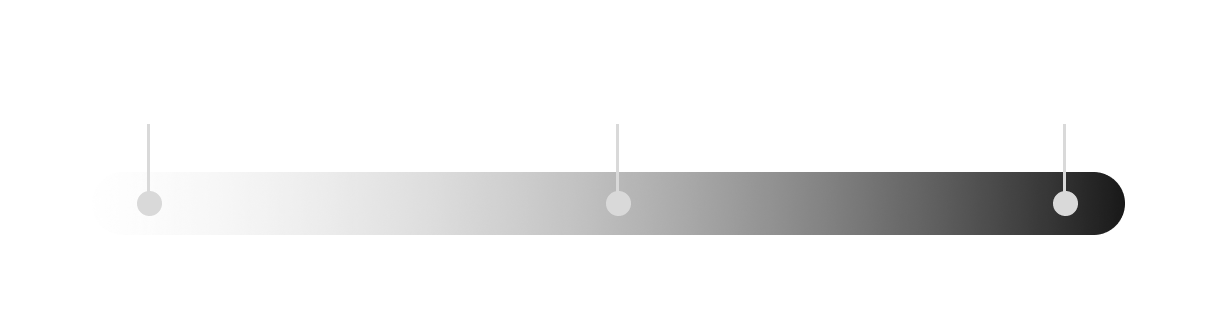
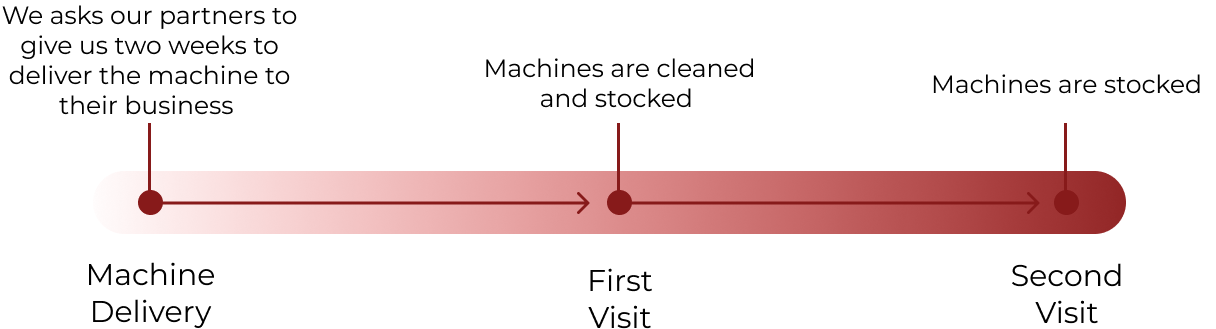
big site changes v1

diff --git a/src/components/home.js b/src/components/home.js
@@ -5,46 +5,55 @@ const Home = () => {
 
     return (
         <div id="home" className="w-full overflow-hidden">
-            <div id="mission" className="flex items-center place-content-center space-x-[5%] pt-[18%] md:pt-[11%] pb-[7%]">
-                <img className="w-[25%] ml-[5%]" src={require("../pictures/logo.png")} alt="2ofakind logo"/>
-                <p className="text-black text-[3.5vw] md:text-[2.6vw] leading-[200%] w-[50%] md:w-[60%]">
+
+            <div id="first_section" className=" bg-black md:flex items-center place-content-center space-x-[5%] pt-[25%] md:pt-[11%] pb-[7%]">
+                <img className=" w-[75%] md:w-[25%] ml-[5%]" src={require("../pictures/logo.png")} alt="2ofakind logo"/>
+                <p className="text-white text-[5vw] md:text-[2.4vw] leading-[200%] w-[85%] md:w-[55%] py-[8%] md:py-0 pl-[10%] md:pl-0">
                     Our goal is to provide our clients with affordable vending solutions.</p>
             </div>
-            <div id="machines" className='bg-stone-600 pb-[5%] text-white'>
-                <p className="text-black text-[2.5vw] md:text-[1.9vw] leading-[190%] w-[75%] md:w-[65%] ml-[7%] py-[5%] text-white">
-                We give your employees and customers the vending choices they want while saving 
-                money, increasing production, and keeping everyone happy. </p>
-                <div id="catalog" className='my-[5%]'> 
-                    <p className='ml-[7%] text-[3.5vw] md:text-[2.2vw] underline underline-offset-[60%] italic'>Timeline</p>
+
+            <div id="second_section" className='bg-[#e8e8e8] pb-[5%] text-black'>
+                <p className="text-[3.5vw] md:text-[1.7vw] leading-[190%] w-[90%] md:w-[62%] ml-[7%] py-[15%] md:pt-[4%] md:pb-0">
+                We give your employees and customers the vending choices they want while <span className="underline decoration-blue-500 decoration-3 underline-offset-3">saving 
+                money, increasing production, and keeping everyone happy.</span> We also provide healthy snacks and beverage options specifically designed for your location or type of business. </p>
+                <div id="timeline" className='mt-[5%]'> 
+                    <p className='ml-[7%] text-[4vw] md:text-[2.2vw] underline underline-offset-[60%] italic'>Timeline</p>
                     <div className='flex justify-center w-full my-[4%]'>
-                        <img className="w-[75%] ml-[5%] py-[5%]" src={require("../pictures/timeline.png")} alt="machine timeline"/>
-                    </div>
-                    <p className="underline underline-offset-[60%] text-[3.5vw] md:text-[2.2vw] pb-[5%] ml-[7%]">Our Machines</p>
-                    <div className='flex space-x-5 ml-[10%] w-full'>
-                        <img className="w-[25%]" src="https://via.placeholder.com/275x275"alt="placeholder" />
-                        <img className="w-[25%]" src="https://via.placeholder.com/275x275" alt="placeholder"/>
-                        <img className="w-[25%]" src="https://via.placeholder.com/275x275" alt="placeholder"/>
+                        <img className="w-[95%] md:w-[70%] ml-[3%] py-[15%] md:py-[3%]" src={require("../pictures/timeline.png")} alt="machine timeline"/>
                     </div>
                 </div>
             </div>
-            <div id="third_section" className='bg-white pb-[10%]'>
-                <p className="text-black text-[2.5vw] md:text-[1.9vw] leading-[190%] w-[75%] md:w-[65%] ml-[7%] py-[8%] float-right text-right mr-[10%]">
-                    We also provide healthy snack and beverage options specifically designed for your 
-                    location or type of business. </p>
-                <div className='flex space-x-5 ml-[10%] w-full'>
-                    <img className="w-[25%]" src="https://via.placeholder.com/275x275" alt="placeholder"/>
-                    <img className="w-[25%]" src="https://via.placeholder.com/275x275"alt="placeholder" />
-                    <img className="w-[25%]" src="https://via.placeholder.com/275x275"alt="placeholder" />
+
+            <div id="third_section" className='bg-white pt-[15%] md:pt-[5%]'>
+                <p className="underline underline-offset-[60%] text-[3.5vw] md:text-[2.2vw] pb-[5%] ml-[7%] italic">Our Machines</p>
+                <div className='flex my-[8%] md:mt-0 ml-[6%] w-full'>
+                    <div className='w-[25%]'>
+                        <img className="w-[58%] ml-[20%]" src={require("../pictures/small_machine.png")} alt="Small Vending Machine"/>
+                        <p className="image_title pt-[4%] text-[4vw] md:text-[2vw]">Smaller spaces</p>
+                        <p className="image_description text-[2vw] md:text-[1vw] pt-[10%] md:pt-[5%]">SV 3000 <br></br> 29.3”FT Wide X 34.75”FT Deep x 72” FT High </p>
+                    </div>
+                    <div className="w-[25%] mr-[6%] ml-[4%]">
+                        <img className="" src={require("../pictures/snacks_machine.png")} alt="Snacks Vending Machine"/>
+                        <p className="image_title pt-[4%] text-[4vw] md:text-[2vw]">Snacks</p>
+                        <p className="image_description text-[2vw] md:text-[1vw] pt-[10%] md:pt-[5%]">Crane National Vendor Model 167 <br/> 38.13”FT Wide X 32.25”FT Deep x 72” FT High </p>
+                    </div>
+                    <div className="w-[25%]">
+                        <img className="" src={require("../pictures/drinks_machine.png")} alt="Drinks Vending Machine"/>
+                        <p className="image_title pt-[4%] text-[4vw] md:text-[2vw]">Drinks</p>
+                        <p className="image_description text-[2vw] md:text-[1vw] pt-[10%] md:pt-[5%]">CB500 Energy Star <br/> 31.5”FT Wide X 33.15”FT Deep x 72” FT High</p>
+                    </div>
                 </div>
-                <div id="fiverr_group" className='flex mt-[12%] items-center justify-center'>
-                    <p className="text-black text-[2.9vw] md:text-[1.9vw] leading-[190%] w-[45%] md:w-[35%]">
+            </div>
+
+            <div id="fourth_section" className='bg-white pb-[12%]'>
+                <div id="fiverr_group" className='flex mt-[15%] items-center justify-center w-full'>
+                    <p className="text-black font-medium italic text-[3.3vw] md:text-[1.9vw] leading-[190%] w-[50%] md:w-[35%]">
                         Need help finding locations <br/> to place a vending machine? </p>
                     <a href="https://www.fiverr.com/s/xW9QjQ?utm_source=CopyLink_Mobile">
-                        <button class="rounded-full bg-red-400 w-[150%] md:ml-[-45%] py-[10%]
-                         mb-[20%] md:mb-0 text-[1.5vw] text-white">Create List</button>
+                        <button class="rounded-full bg-gradient-to-r from-red-700 to-blue-700 w-[150%] ml-[20%] md:ml-[-45%] py-[10%]
+                         mb-[20%] md:mb-0 text-[2.5vw] md:text-[1.5vw] text-white">Create List</button>
                     </a>
                 </div>
-
             </div>
 
         </div>

diff --git a/src/components/about.js b/src/components/about.js
@@ -3,22 +3,22 @@ import './about.css';
 
 function Navbar() {
   return (
-    <div id="about">
-            <div id="about_paragraph" className="flex pt-[20%] md:pt-[8%] w-full overflow-hidden items-center place-content-center space-x-[5%]">
-                    <img className="w-[25%] ml-[5%]" src={require("../pictures/logo.png")} alt="2ofakind logo"/>
-                    <p className="text-black text-[2.5vw] md:text-[1.4vw] leading-[200%] w-[60%] md:w-[45%]">
+    <div id="about" className=''>
+            <div id="about_paragraph" className="flex pt-[30%] md:pt-[10%] w-full overflow-hidden items-center place-content-center space-x-[5%]">
+                    <img className="hidden md:block w-[22%] ml-[5%]" src={require("../pictures/logo.png")} alt="2ofakind logo"/>
+                    <p className="text-black text-[3.8vw] md:text-[1.2vw] leading-[200%] w-[80%] md:w-[45%]">
                         2ofaKind Vending is your full-service vending company located in New York City.
                          We provide top-notch service to our clients throughout the 5 boroughs. 
                          2ofaKind Vending is a fully-insured and locally owned family business that 
                          puts our client's interest first. We offer:
-                        <ul className='list-disc ml-[5%]'>
+                        <ul className='list-disc ml-[5%] mt-[3%]'>
                             <li>Wide selection of name-brand popular snacks, beverages, foods, and healthy snacks</li>
                             <li>Excellent service and fast response time</li>
                             <li>Customized menu to meet your organization's unique needs</li>
                         </ul>
                     </p>
             </div>
-            <div id="team" className='mt-[3%]'>
+            <div id="team" className=' mt-[10%] md:mt-[3%]'>
                     <div className='flex space-x-5 justify-center mt-[2%]'>
                         <div className="w-[20%]">
                             <img className="w-[100%]" src="https://via.placeholder.com/275x275" alt="placeholder"/>

diff --git a/src/components/contact.js b/src/components/contact.js
@@ -3,16 +3,22 @@ import './contact.css';
 
 function Contact() {
   return (
-    <div id="contact" className='pt-[20%] md:pt-[13%] w-full overflow-hidden'>
-        <div id="email info" className='text-[2vw] ml-[10%]'>   
+    <div id="contact" className='pt-[30%] md:pt-[13%] w-full overflow-hidden'>
+        <div id="email info" className='text-[7vw] md:text-[2vw] ml-[10%] italic'>   
             <span>Contact us at: </span>
         </div>
-        <div className='mt-[5%] ml-[13%] text-[1.5vw] italic'>
+        <div className='mt-[13%] md:mt-[5%] ml-[13%] text-[5.5vw] md:text-[1.5vw] italic'>
             <a className="underline decoration-blue-500 decoration-2" 
                 href="mailto:2ofakindvending@gmail.com">2ofakindvending@gmail.com</a>
-            <div id="instagram" className='mt-[5%] flex items-center'>
-                <img className="w-[3%] mr-[1%]" src={require("../pictures/instagram.png")} alt="ig logo"/>
+            <p className='mt-[2%]'>+1-(646)-269-9103</p>
+            
+            <div id="instagram" className='mt-[15%] md:mt-[5%] flex items-center'>
+                <img className="w-[8%] md:w-[3%] mr-[4%] md:mr-[1%]" src={require("../pictures/instagram.png")} alt="ig logo"/>
                 <a href="https://www.instagram.com/2ofakindvendingllc/">@2ofakindvendingllc</a>
+            </div>
+            <div id="facebook" className='mt-[3%] flex items-center'>
+                <img className="w-[8%] md:w-[3%] mr-[4%] md:mr-[1%]" src={require("../pictures/facebook.png")} alt="facebook logo"/>
+                <a href="https://www.facebook.com/people/2ofakind-vending-LLC/100077169247923/">2ofakind Vending LLC</a>
             </div>
         </div>
 

diff --git a/src/components/navbar.js b/src/components/navbar.js
@@ -1,14 +1,16 @@
 import React from 'react';
-import { NavLink } from 'react-router-dom';
+import { NavLink, Link } from 'react-router-dom';
 import './home.css';
 
 function Navbar() {
   return (
-    <div className="navbar bg-white overflow-hidden pt-[.5%] fixed w-full text-[1.5vw]">
-      <NavLink to="/products" activeClassName="active" className="mr-[3%]">Products</NavLink>
-      <NavLink to="/contact" activeClassName="active">Contact Us</NavLink>
-      <NavLink to="/about" activeClassName="active">About</NavLink>
-      
+    <div className="navbar bg-black overflow-hidden pt-[.5%] fixed w-full text-[3.5vw] md:text-[1.5vw] pr-[2%]">
+        <NavLink to="/contact" activeClassName="active" >Contact Us</NavLink>
+        <NavLink to="/about" activeClassName="active">About</NavLink>
+        <Link to="/" className="home_button flex mt-[-2%] md:mt-[-0.5%] w-[45%] md:w-[25%] items-center float-left absolute ml-[2%]">
+            <img className="w-[30%] md:w-[17%] mr-[2%]" src={require("../pictures/logo.png")} alt="2ofakind logo"/>
+            2ofaKind Vending LLC
+        </Link>
     </div>
   );
 }

diff --git a/src/components/home.css b/src/components/home.css
@@ -1,8 +1,10 @@
 .navbar a {
     float: right; /* Float the links to the left */
-    color: black;
+    color: white;
     text-align: center;
     padding: 25px 20px;
+    font-family: 'Montserrat', cursive;
+    font-weight: 400;
 }
 
 /* Change link color on hover */
@@ -15,15 +17,23 @@
     color: blue;
 }
 
-#mission {
+#first_section {
     font-family: 'Montserrat', cursive;
     font-style: italic;
     font-weight: 300;
 }
 
-#machines, #third_section {
+#second_section, #third_section, #fourth_section, p {
     font-family: 'Montserrat', cursive;
     font-weight: 400;
+}
+
+.image_title{
+    text-align: center;
+}
+
+.image_description{
+    text-align: center;
 }
 
 @import url('https://fonts.googleapis.com/css2?family=Montserrat:ital,wght@0,100;0,200;0,300;0,400;0,500;0,600;0,700;0,800;0,900;1,100;1,200;1,300;1,400;1,500;1,600;1,700;1,800;1,900&display=swap');
